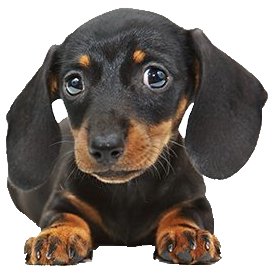
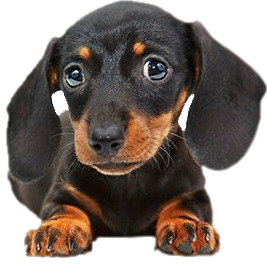
Modificaciones en api: Reviews: ahora un usuario no pueda eliminar o modificar reviews que no son de ellos, Product: PUT a product, ahora tambien podemos modificar la imagen, Modificacion en la foto del perrito salchicha :)

Changed region(s): [[0.0599, 0.0, 1.0, 0.9962], [0.0, 0.483, 0.1498, 0.7547], [0.0, 0.2717, 0.1199, 0.483]]

diff --git a/api/src/routes/reviews.js b/api/src/routes/reviews.js
@@ -2,34 +2,47 @@ const server = require('express').Router();
 const { Product, Review, User } = require('../db.js');
 const { isAuthenticated } = require("../passport");
 
-server.post('/product/:id/review', isAuthenticated, (req, res) => {                       //S54 : Crear ruta para crear/agregar Review
+server.post('/product/:id/review', isAuthenticated, (req, res) => {                       //S54 : ruta para crear/agregar Review
+    //Guardo el id del producto enviado por params en una constante
     const product_id = req.params.id;
-    const { qualification, description, user_id } = req.body;
+    //Guardo el id del user en una constante
+    const user_id = req.user.user_id;
+    //Guardo la calificacion y descripcion enviada por body con destructuring
+    const { qualification, description } = req.body;
     Review.create({
         qualification,
         description,
-        user_id,
+        user_id: user_id,
         product_id,
     }).then((data) => {
+        //en caso de que haya creado el producto de manera exitosa la devuelvo como un json
         res.status(201).json(data)
     }).catch((error) => {
+        //en caso de error devuelvo un 400 y un json con el error
         res.status(400).json(error)
     })
 })
 
-server.put('/product/:id/review/:idReview', isAuthenticated, (req, res) => {              //S55 : Crear ruta para Modificar Review
+server.put('/product/:id/review/:idReview', isAuthenticated, (req, res) => {              //S55 : ruta para Modificar Review
+    //Guardo el id del producto y de la review enviado por params en una constante
     const {id, idReview} = req.params;
-    const { qualification ,description } = req.body
+    //Guardo el id del user en una constante
+    const user_id = req.user.user_id;
+    //Guardo la calificacion y descripcion enviada por body con destructuring
+    const { qualification ,description } = req.body;
     Review.update({
         qualification: qualification,
         description: description
     },{
+        returning: true,
         where:{
+            user_id: user_id,
             product_id: id,
             review_id: idReview
         }
     }).then(data => {
-        res.send(data).status(200)
+        // en la data recibida en caso de que todo salio bien devuelve un array con un 1 si se modifica lo solicitado o un 0 en caso de que no haya modificado nada
+        res.send(data[1]).status(200)
     }).catch(err => {
         console.log('Error: ', err)
         res.status(400).send(err)
@@ -37,14 +50,20 @@ server.put('/product/:id/review/:idReview', isAuthenticated, (req, res) => {    
 })
 
 server.delete('/product/:id/review/:idReview', isAuthenticated, (req, res) => {           //S56 : Crear Ruta para eliminar Review
-    const {idReview} = req.params
+    const { idReview } = req.params;
+    const user_id = req.user.user_id;
 
     Review.destroy({
         where:{
+            user_id: user_id,
             review_id: idReview
         }
     }).then(data => {
-        res.send('Review eliminado :)').status(200)
+        //data captura un 1 si el delete se hace exitosamente o un 0 si no se elimina nada
+        if( data === 0) {
+            res.send('Esta review pertenece a otro usuario o no existe')
+        }
+        res.send('Review eliminada exitosamente :)').status(200)
     }).catch(err => {
         console.log('Error: ', err)
         res.send('Ocurrio un error :(')

diff --git a/api/src/routes/product.js b/api/src/routes/product.js
@@ -1,6 +1,6 @@
 const server = require('express').Router();
 const { Product, Category } = require('../db.js');
-const { isAuthenticated, isAdmin, isNotAuthenticated } = require("../passport");
+const { isAdmin } = require("../passport");
 
[1 lines of base64/hex data omitted]
 
@@ -50,7 +50,7 @@ server.get('/:id', (req, res) => {											//TRAE EL PRODUCTO DEL CORRESPONDIE
 })
 
 server.post('/', isAdmin,(req, res) => {									//AGREGA NUEVOS PRODUCTOS
-	const {name, description, price, stock, categoryId, image} = req.body;
+	const { name, description, price, stock, categoryId, image } = req.body;
 	console.log(req.body)
 	if( !name || !description ){
 		return res.status(400).send("Nombre y descripcion son requeridos")
@@ -110,35 +110,30 @@ server.post('/', isAdmin,(req, res) => {									//AGREGA NUEVOS PRODUCTOS
 	})
 
 server.put('/:id', isAdmin, (req, res) => {       							//MODIFICA UN PRODUCTO SEGUN SU ID
-    const {name, description, price, stock } = req.body;
-	
-	Product.findByPk(req.params.id)
-	.then(product => {
-		console.log(product)
-		product.update({
-			name,
-			description,
-			price,
-			stock
-    	},{
-			returning: true,
-			where: {
-				id: req.params.id
-			}
-    	})
-	})
-	.then(function(product) {
-		console.log(product[1]);
-		if(product[0] == 0) {
-			res.status(400).send('Error, campos requeridos')
-				return product[0]
-			}
-			res.status(200).json(product)
-    })
-	.catch(err => {
-		res.status(400)
-        console.log('Error: ', err)
-    })
+    const { name, description, price, stock, image } = req.body;
+	const productId = req.params.id;
+
+	Product.findByPk(productId)
+		.then(product => {
+			console.log(product)
+			return product.update({
+				name,
+				description,
+				price,
+				stock,
+				image
+			},{
+				returning: true,
+				where: {
+					id: productId
+				}
+			})
+		}).then(function(product) {
+			res.status(200).send(product)
+		}).catch(err => {
+			res.status(400)
+			console.log('Error: ', err)
+		})
 });
 
 server.delete('/:id', isAdmin, (req, res) => {								//ELIMINA UN PRODUCTO SEGUN ID

diff --git a/api/src/routes/users.js b/api/src/routes/users.js
@@ -67,7 +67,7 @@ server.get('/', isAdmin, (req, res) => {                                //S36 : 
 server.delete('/:id', isAuthenticated, (req, res) => {                  //S37 : Crear Ruta para eliminar Usuario
   var userId = req.params.id;
   if (!userId) {
-    res.status(404).send('Debes ingresar un ID')
+    res.status(404).send('No existe este usuario')
   } else {
     User.findByPk(userId)
       .then(value => {
@@ -121,12 +121,11 @@ server.post('/:idUser/cart', (req, res) => {                            //S38 : 
       quantity,
       price
     });
-  }).then((l) => {
-    console.log(l);
-    res.status(200).send(l)
+  }).then((data) => {
+    res.status(200).send(data);
   }).catch(err => {
-    res.status(400)
-    console.log('Error: ', err)
+    console.log('Error: ', err);
+    res.status(400);
   })
 
 });

diff --git a/client/src/App.js b/client/src/App.js
@@ -51,8 +51,8 @@ function App() {
           <Route exact path="/" render={() => <Fondo />} />
           <Route exact path="/" component={MostrarCategorias} />
           <Route exact path="/" component={Animales} />
+          <Route exact path="/" component={ControlledCarousel} />
           <Route exact path="/" component={PieDePagina} />
-
           <Route exact path="/login" render={() => <User />} />
           <Route exact path="/register" render={() => <AgregarUsuario />} />
           <Route path="/products" component={ListaCategorias} />

diff --git a/api/src/app.js b/api/src/app.js
@@ -80,8 +80,11 @@ passport.use(new LocalStrategy(
 passport.serializeUser((user, done) => done(null, user.user_id));
 
 passport.deserializeUser((user_id, done) => {
-  User.findOne({ where: { user_id: user_id } })
-    .then(user => {
+  User.findOne({ 
+    where: { 
+      user_id: user_id 
+    } 
+  }).then(user => {
       if (user) {
         return done(null, user);
       }
